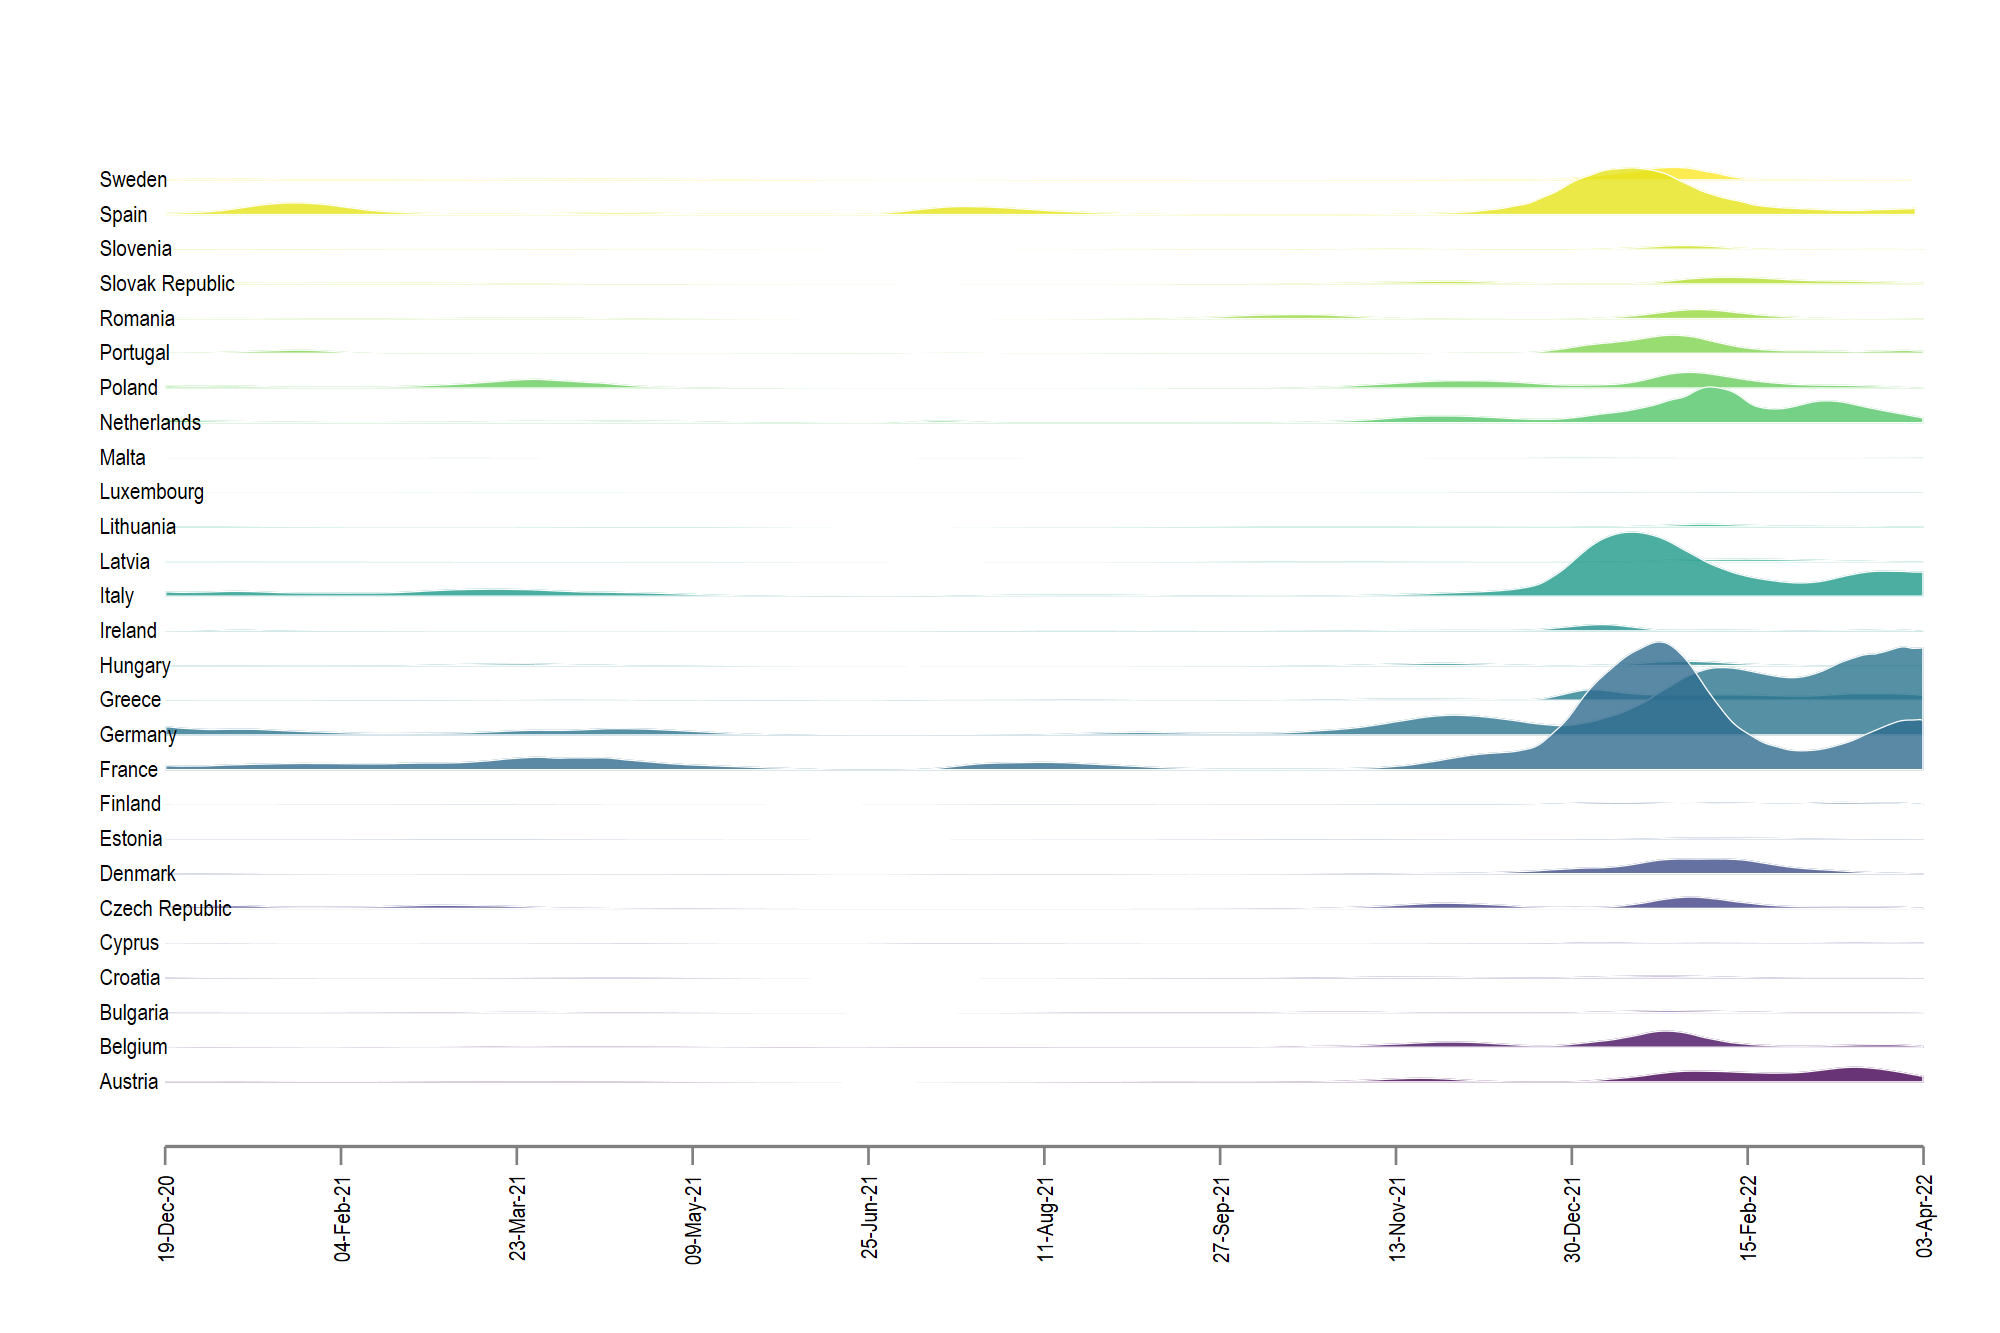
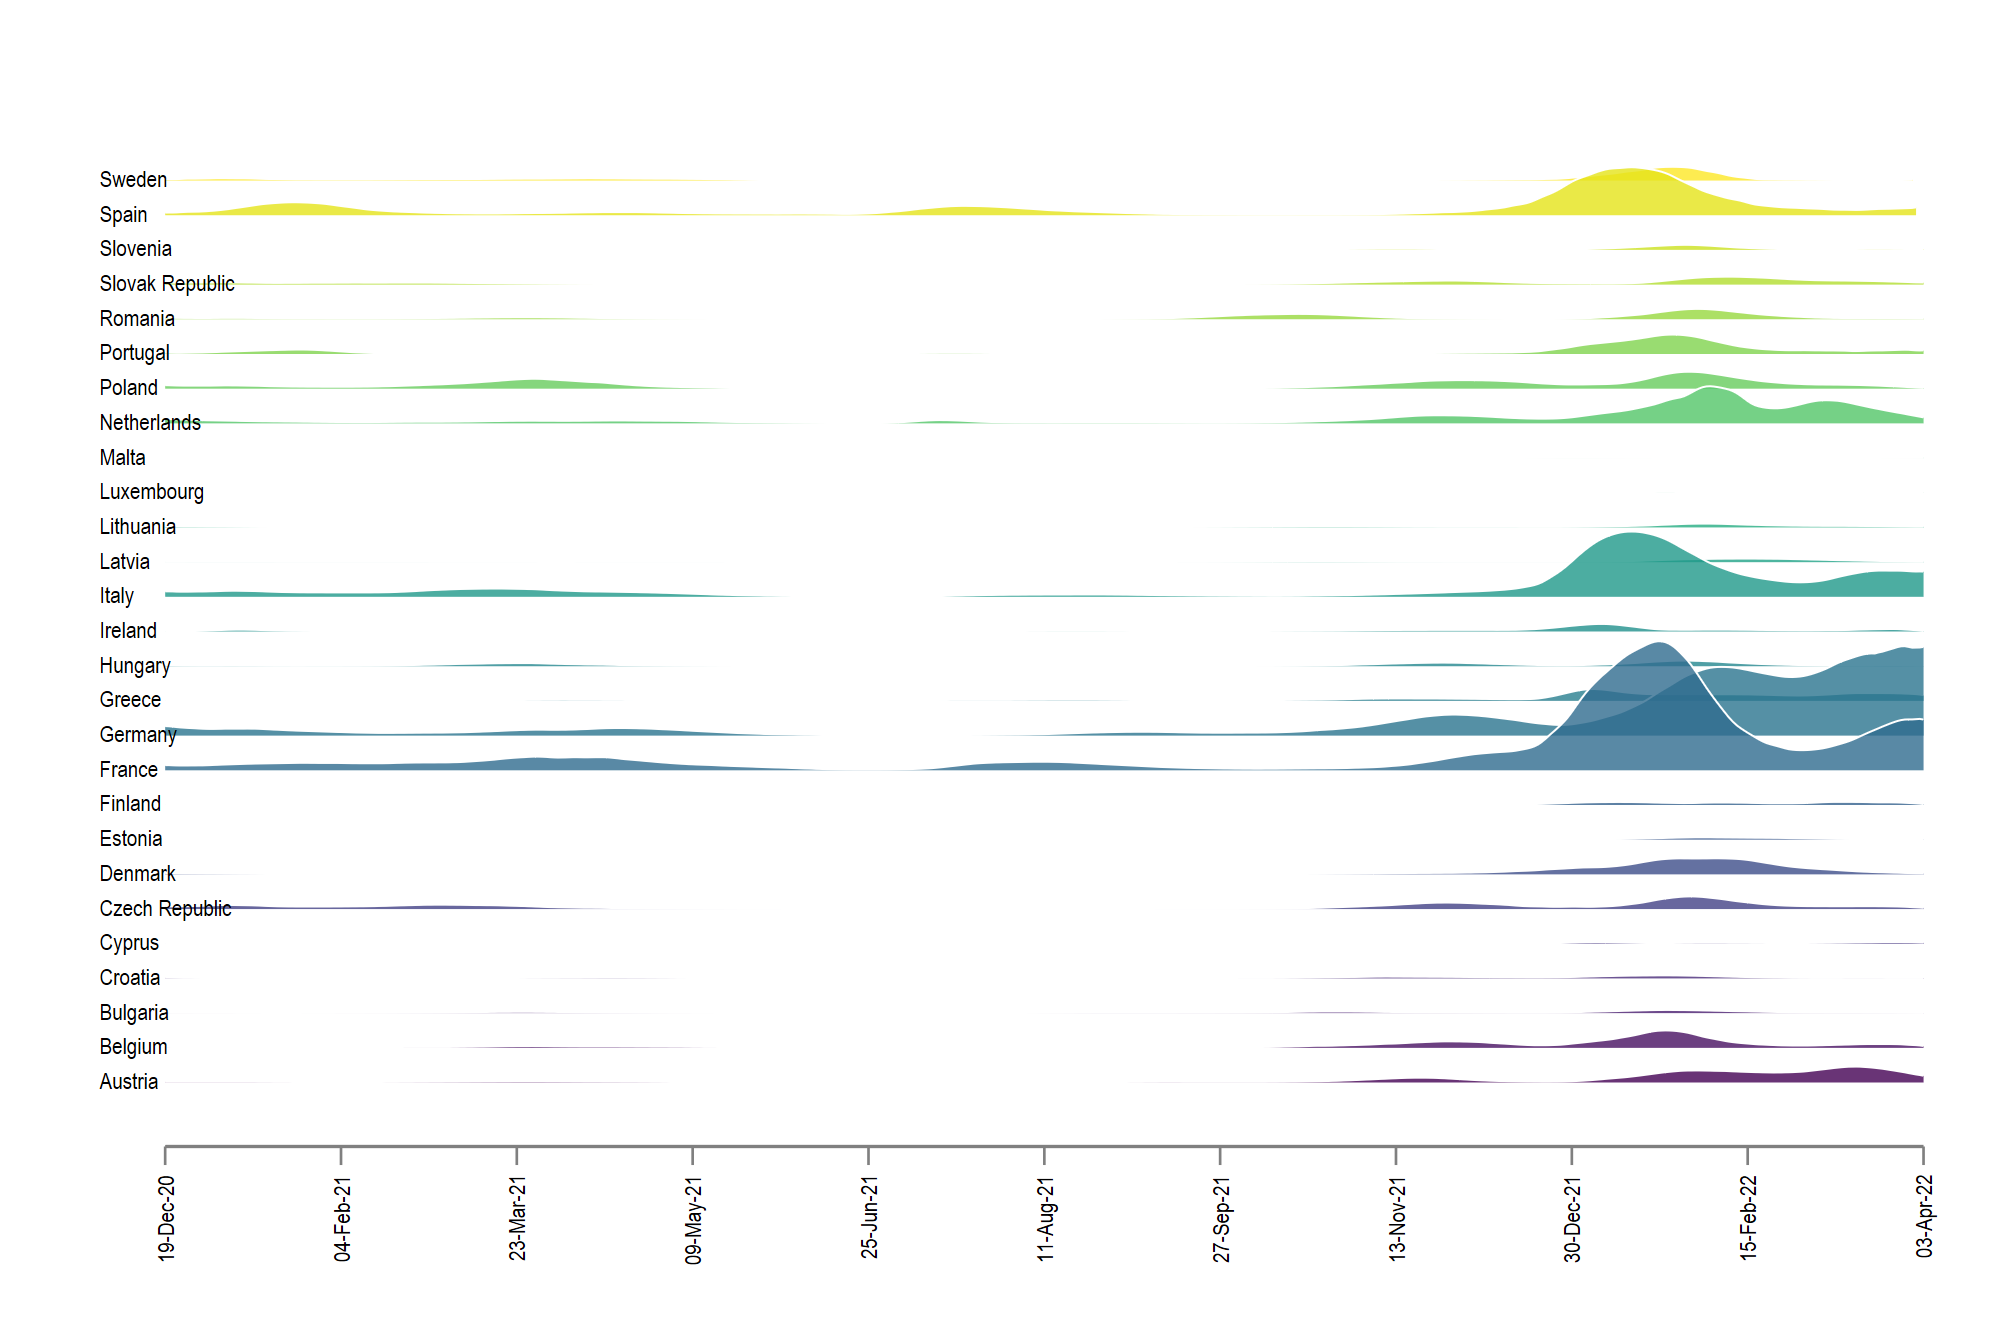
v1.2 update

diff --git a/README.md b/README.md
@@ -196,8 +196,8 @@ qui summ date if date > 22425
 local xmin = r(min)
 local xmax = r(max)
 	
-joyplot new_cases date if date > 22425, over(country) overlap(8) color(white) alpha(100) bwid(0.1) ///
-	lc(black) lw(0.2) xticks(`xmin' `xmax') off(+20) ///
+joyplot new_cases date if date > 22425, over(country) overlap(8) color(black) alpha(100) bwid(0.1) ///
+	lc(white) lw(0.2) xticks(`xmin' `xmax') off(+20) ///
 	ylabc(none) xlabc(none) xangle(0) /// 
 	xtitle("") ytitle("") ///
 	title("{fontface Arial Bold:The Joy Division look}") scheme(neon)
